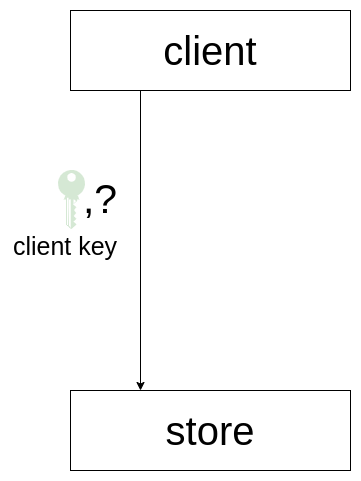
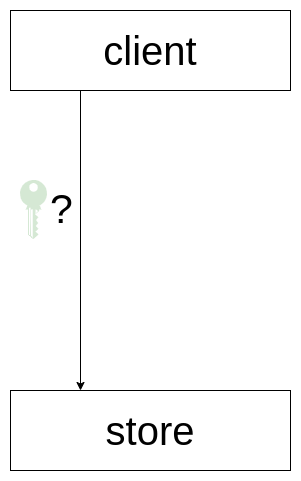
cert mitm

diff --git a/index.html b/index.html
@@ -53,6 +53,12 @@
 				<section>
 					<img src="./images/mitm2.png" alt="mitm2">
 				</section>
+				<section>
+					<img src="./images/simple_cert.png" alt="simple cert">
+				</section>
+				<section>
+					<img src="./images/cert_mitm.png" alt="cert mitm">
+				</section>
 			</div>
 		</div>
 
